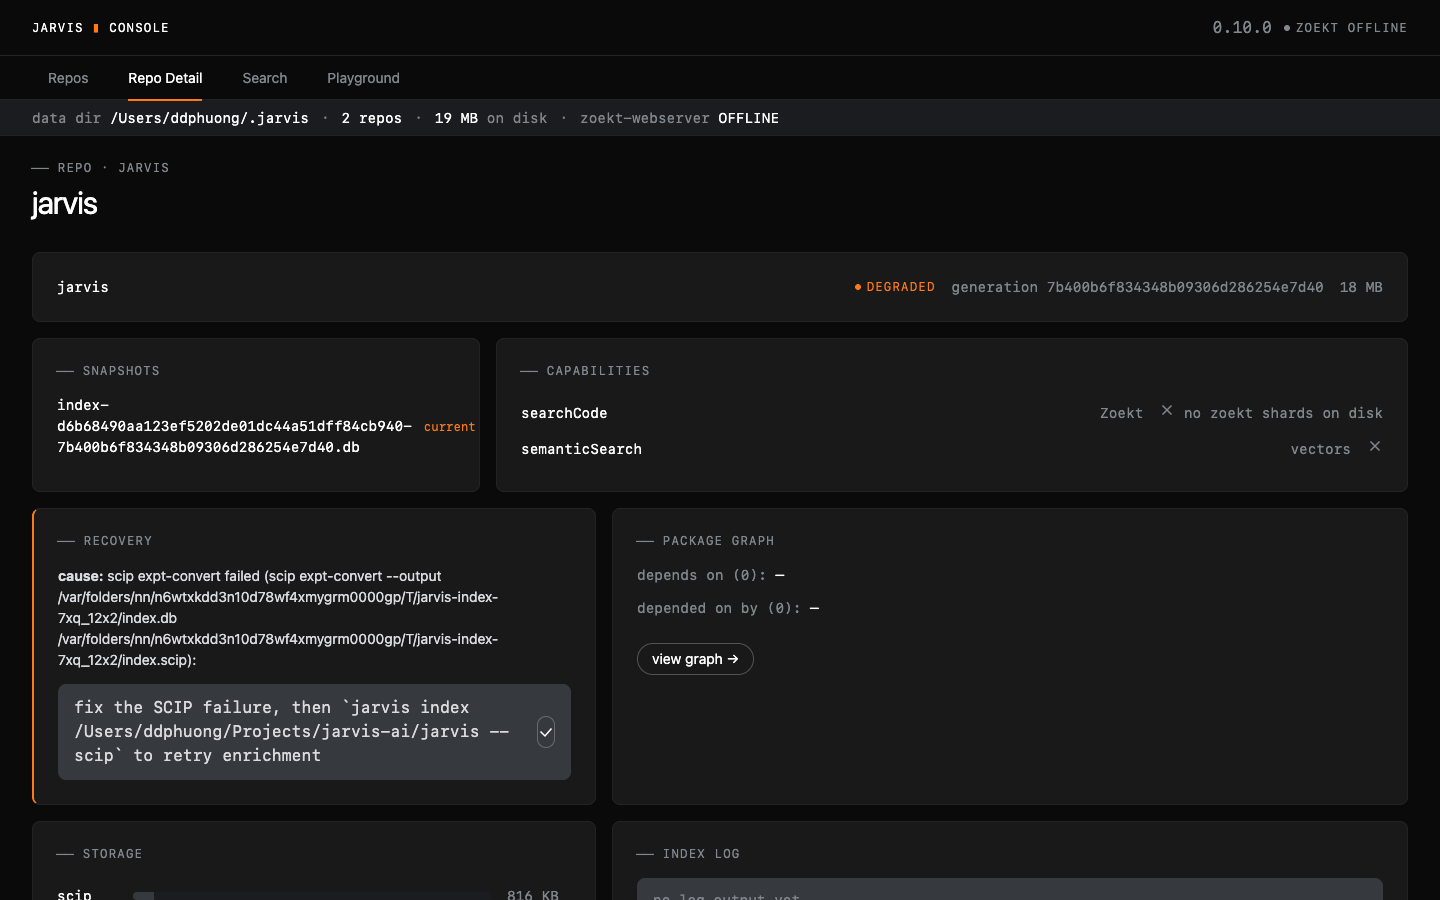
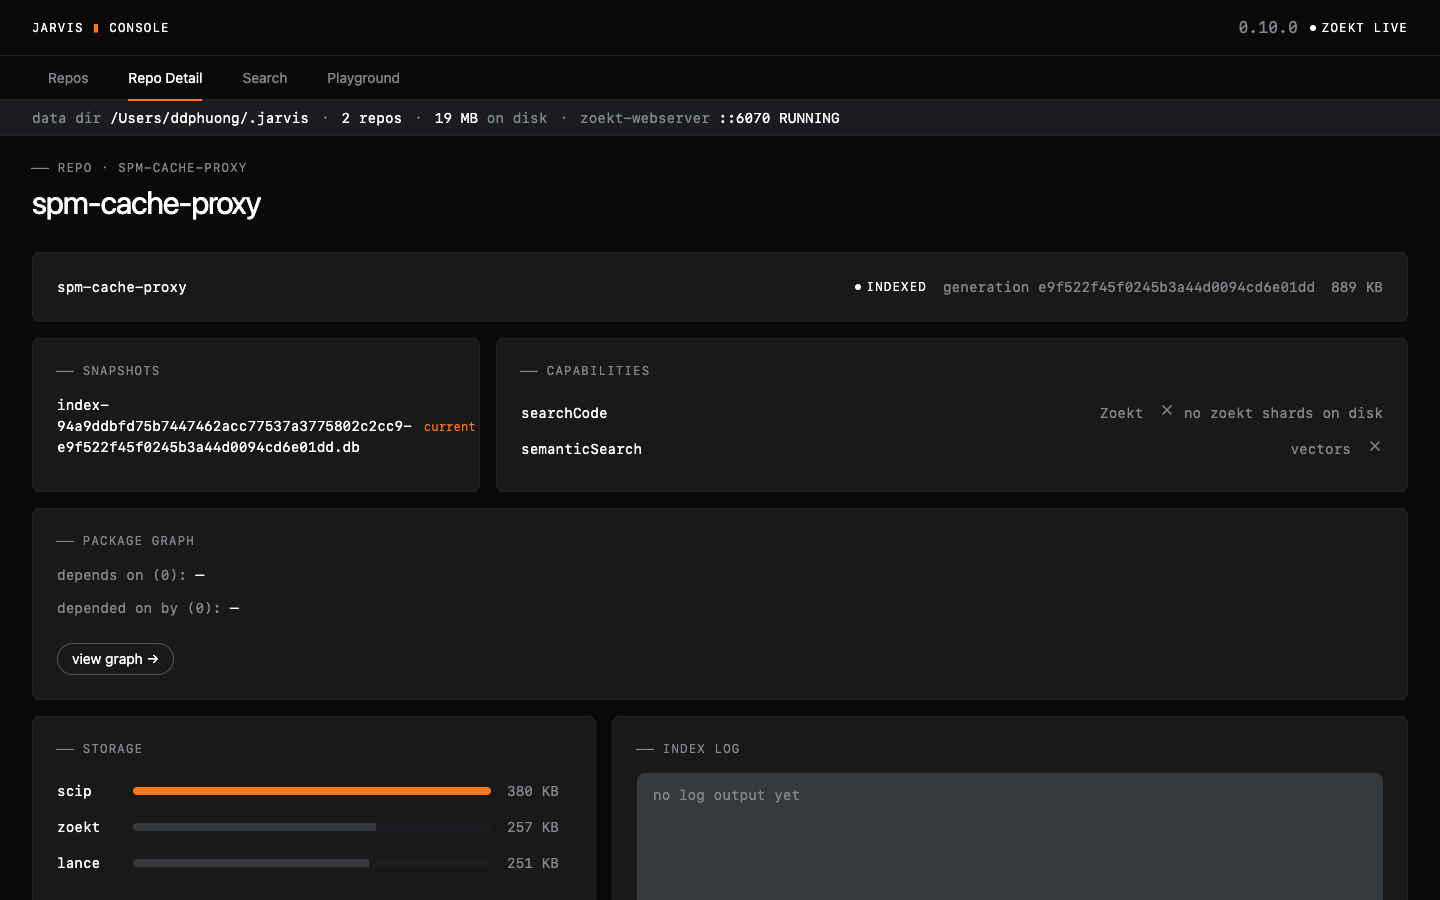
fix(dashboard): unwrap getIndexStatus envelope in repo detail capabilities
The repo-detail handler stored the full getIndexStatus tool payload as
the capabilities field, but the renderer reads capabilities.tools /
capabilities.search / capabilities.semantic off the INNER capabilities
object — so every healthy repo rendered with fallback unavailable marks
on searchCode/semanticSearch and no per-tool rows. Unwrap the envelope
(inner capabilities + last_index_run surfaced top-level for the recovery
card). Also restores the .hit-meta rule dropped in the mark-styling fix
and recaptures the detail/playground screenshots at 1440x900 against a
clean SCIP-backed index.

diff --git a/src/jarvis/dashboard_assets/style.css b/src/jarvis/dashboard_assets/style.css
@@ -236,6 +236,7 @@ main { overflow: auto; background: var(--canvas); }
 .snippet { display: block; margin-top: var(--space-3); padding: var(--space-2) var(--space-3); overflow-x: auto; border-radius: 6px; background: var(--canvas-mid); color: var(--body); font-family: var(--font-mono); font-size: 13px; line-height: 1.5; white-space: pre; }
 .snippet mark { background: transparent; color: var(--accent-sunset-soft); font-weight: 700; }
 .hit mark { background: transparent; color: var(--accent-sunset-soft); font-weight: 700; }
+.hit-meta { display: block; margin-top: var(--space-3); color: var(--body-mid); font-size: 14px; }
 .no-results { color: var(--body-mid); padding: var(--space-4) 0; }
 
 /* Playground */

diff --git a/src/jarvis/dashboard.py b/src/jarvis/dashboard.py
@@ -451,7 +451,11 @@ class DashboardApi:
                 index_dir.glob("index-*.db"), key=lambda candidate: -candidate.stat().st_mtime
             )
         ] if index_dir.exists() else []
-        capabilities = server.get_index_status(slug, entry.path)
+        # `get_index_status` returns the full tool envelope; the renderer
+        # wants the inner `capabilities` object plus `last_index_run`.
+        status_payload = server.get_index_status(slug, entry.path)
+        capabilities = status_payload.get("capabilities") or {}
+        last_run = status_payload.get("last_index_run") or {}
         nodes, edges = _graph_edges()
         own_ids = {node["id"] for node in nodes if node["repo"] == slug}
         by_id = {node["id"]: f"{node['repo']}:{node['name']}" for node in nodes}
@@ -466,6 +470,7 @@ class DashboardApi:
         row.update({
             "snapshots": snapshots,
             "capabilities": capabilities,
+            "last_index_run": last_run,
             "graph": {"dependsOn": depends_on, "dependedOnBy": depended_on_by},
             "logPath": log_path,
             "recovery": recovery_for(entry),
